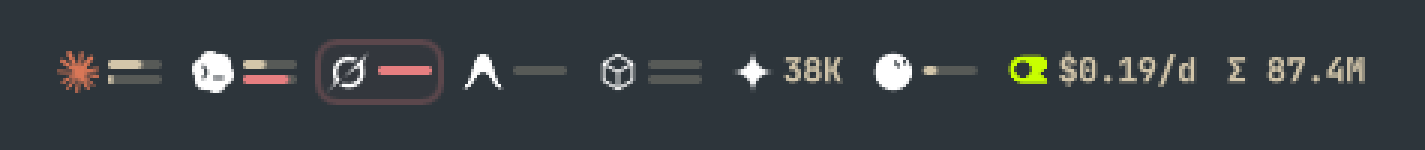
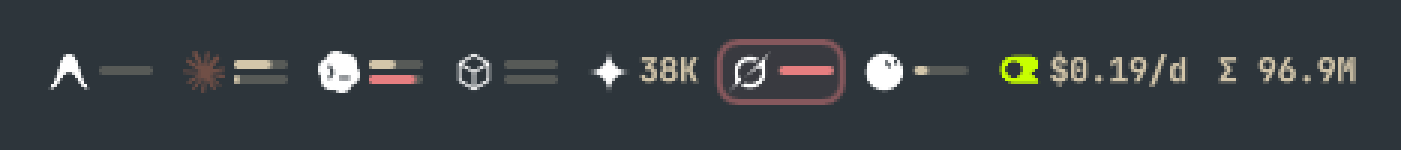
List providers alphabetically everywhere: bar, Show in bar, settings screen, token tooltip

Changed region(s): [[0.0307, 0.24, 0.9822, 0.72]]

diff --git a/tests/test_read.py b/tests/test_read.py
@@ -54,6 +54,18 @@ class Records(unittest.TestCase):
         self.assertEqual([a["id"] for a in out["agents"]], ["claude", "codex"])
         self.assertEqual([l["percent"] for l in out["agents"][0]["limits"]], [60.0, 100.0])
 
+    def test_alphabetical_by_name(self):
+        with Sandbox() as box:
+            for agent_id, name in (("openrouter", "OpenRouter"), ("claude", "Claude Code"), ("agy", "Antigravity"),
+                                   ("grokbot", "Grok Bot"), ("grok", "Grok"), ("codex", "Codex")):
+                box.write_record(agent_id, {"name": name, "limits": [{"label": "W", "percent": 0.1}],
+                                            "todayTotalTokens": 5})
+            out = run_read()
+        self.assertEqual([a["name"] for a in out["agents"]],
+                         ["Antigravity", "Claude Code", "Codex", "Grok", "Grok Bot", "OpenRouter"])
+        self.assertEqual([t["name"] for t in out["todayByAgent"]],
+                         ["Antigravity", "Claude Code", "Codex", "Grok", "Grok Bot", "OpenRouter"])
+
     def test_broken_records_are_skipped(self):
         with Sandbox() as box:
             with open(box.usage + "/bad.json", "w") as fh:

diff --git a/read.py b/read.py
@@ -27,8 +27,7 @@ _spec.loader.exec_module(_common)
 text, money = _common.text, _common.money
 load_spend, save_spend = _common.load_json, _common.save_json
 
-ORDER = ["claude", "codex", "grok"]
-MAX_AGENTS = 8
+MAX_AGENTS = 16
 MAX_LIMITS = 4
 
 
@@ -259,13 +258,9 @@ def main():
     if spend_changed:
         save_spend(spend_path, spend)
 
-    # Subscriptions first (Claude, Codex, Grok, then the rest), prepaid last.
-    def rank(agent):
-        aid = agent["id"]
-        return ("prepaid" in agent, ORDER.index(aid) if aid in ORDER else len(ORDER), aid)
-
-    agents.sort(key=rank)
-    today.sort(key=lambda item: -item[1])
+    # Providers in alphabetical order by name, everywhere they're listed.
+    agents.sort(key=lambda agent: (agent["name"].lower(), agent["id"]))
+    today.sort(key=lambda item: item[0].lower())
     json.dump({
         "agents": agents[:MAX_AGENTS],
         "todayTokens": sum(t for _, t in today),

diff --git a/providers.py b/providers.py
@@ -548,9 +548,10 @@ def main():
             name = str(rec.get("name") or agent_id)[:24]
             ready = bool(rec.get("limits") or rec.get("balance"))
             rows.append((not ready, name.lower(), agent_id, name, status(rec)))
+        # Alphabetical by name; ● and ○ still show which are set up.
         gemini_on = bool(widget_setting("geminiProjects", ""))
         rows.append((not gemini_on, "gemini api", "gemini-api", "Gemini API (AI Studio)", gemini_status()))
-        rows.sort()
+        rows.sort(key=lambda r: (r[1], r[2]))
         rows.insert(0, (False, "", "display", "Display & alerts", "rings, colours, what prepaid and extra usage show"))
         clear()
         mark = lambda r: "⚙" if r[2] == "display" else "●" if not r[0] else "○"

diff --git a/README.md b/README.md
@@ -21,8 +21,8 @@ An agent whose limits couldn't be refreshed is shown faded. After the meters,
 An agent opens through Omarchy's own `omarchy-agent` launcher, in the same
 terminal with the same flags and account as the `Super` launch; your default
 agent setting is never changed. Providers with no app of their own open their
-usage page instead (OpenRouter activity, AI Studio usage for Gemini, the Cursor
-dashboard for Grok Bot, DeepSeek's usage page), and an agent whose CLI isn't
+usage page instead (DeepSeek's usage page, AI Studio usage for Gemini, the Cursor
+dashboard for Grok Bot, OpenRouter activity), and an agent whose CLI isn't
 installed opens its page or else the Agents panel. While Cursor's sign-in is in
 `~/.config/cursor/auth.json` (the workaround for omacom/omarchy#19559), Cursor
 starts with the display hidden from it, so launching it from the bar doesn't
@@ -66,8 +66,9 @@ with Omarchy's own Claude checks, and waits as long as Anthropic asks after a
 ## Providers and keys
 
 The widget shows every provider Omarchy's Agents plugin tracks that has limits
-or a balance (Claude, Codex, Grok, OpenRouter, Copilot, Cursor, Antigravity,
-DeepSeek, Kimi, Z.ai, Ollama Cloud and more, as you sign in to them).
+or a balance (Antigravity, Claude, Codex, Copilot, Cursor, DeepSeek, Grok, Grok
+Bot, Kimi, Ollama Cloud, OpenRouter, Z.ai and more, as you sign in to them),
+plus the Gemini API, in alphabetical order.
 
 **Settings & providers…** in the menu opens a small setup screen in Omarchy's
 floating terminal (`providers.py`). It lists every provider with what Omarchy
